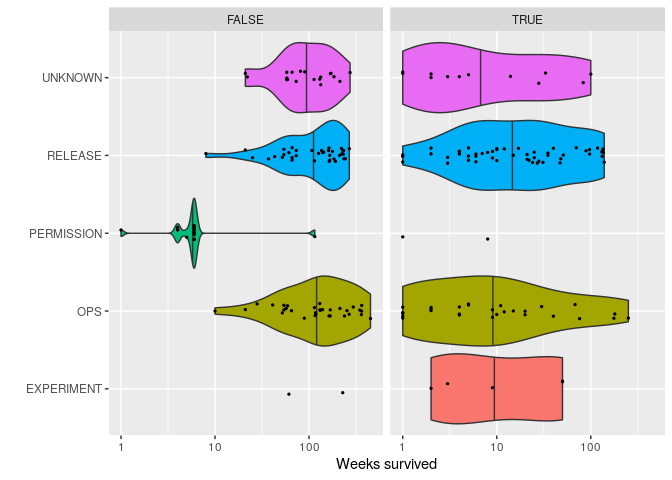
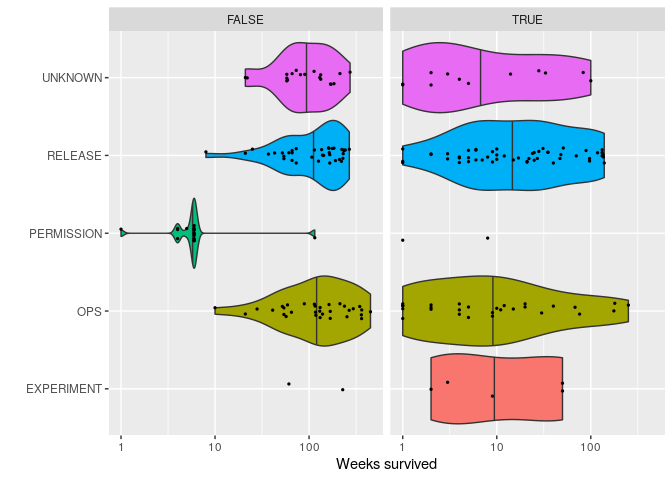
Update preliminary notes

diff --git a/extraction/R/categories.md b/extraction/R/categories.md
@@ -55,8 +55,6 @@ Preliminary notes:
   - Lifetime of RELEASE and OPS toggles distribute similarly.
     **Statistically different? See Kaplan-Meier analysis below**
   - OPS toggles are removed earlier than RELEASE toggles
-  - In general, EXPERIMENT toggles are removed sooner than other
-    categories of toggles
 
 ## Survival time of removed toggles per category
 
@@ -416,7 +414,7 @@ Preliminary notes:
   - Survival curves per category are statistically similar
   - UNKNOWN is more similar to OPS than RELEASE
   - PERMISSION is more similar to UNKNOWN than RELEASE
-  - EXPERIMENT toggles survivability is the most alike of the categories
+  - RELEASE toggles survivability is the most alike of the categories
 
 #### Per project
 
